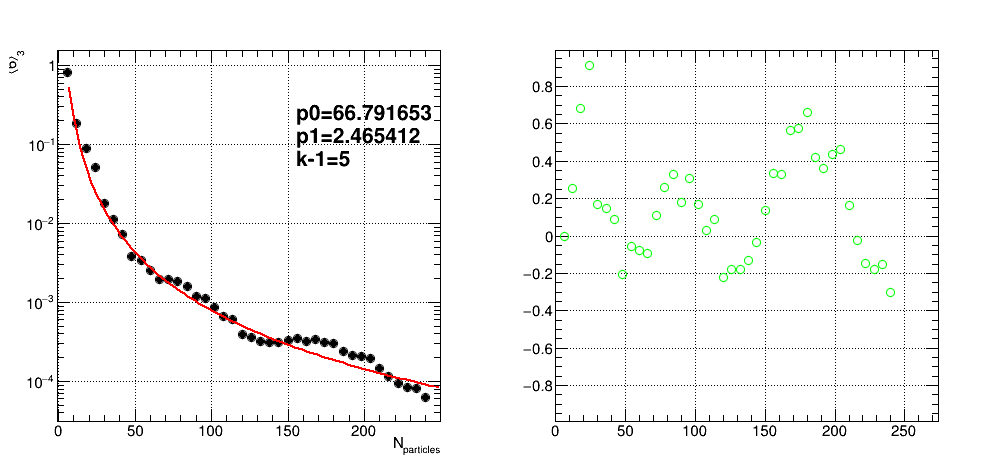
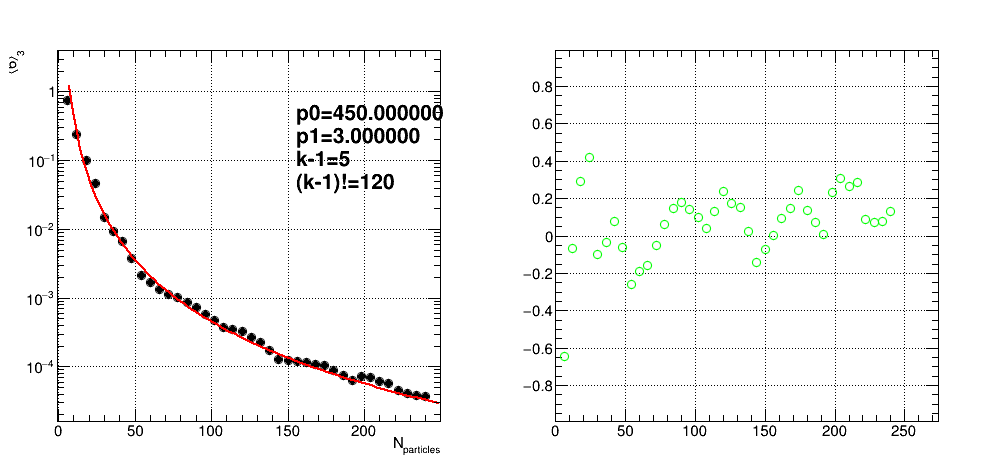
Added Previous Figs Folder, Randomized Spacing Values, Fixed Fit Parameter

diff --git a/RanGenX.C b/RanGenX.C
@@ -124,27 +124,33 @@ void get_corr(int nparticles, int ntuple, int harmonic, double space, int seed)
       ang.push_back(phi2);
 
       if ( ntuple <= 2 ) continue;
-
+      
+      extra = angle.Uniform(-space,space);
       double phi3 = phi2 + increment + extra;
       ang.push_back(phi3);
       if ( ntuple <= 3 ) continue;
 
+      extra = angle.Uniform(-space,space);
       double phi4 = phi3 + increment + extra;
       ang.push_back(phi4);
       if ( ntuple <= 4 ) continue;
 
+      extra = angle.Uniform(-space,space);      
       double phi5 = phi4 + increment + extra;
       ang.push_back(phi5);
       if ( ntuple <= 5 ) continue;
 
+      extra = angle.Uniform(-space,space);
       double phi6 = phi5 + increment + extra;
       ang.push_back(phi6);
       if ( ntuple <= 6 ) continue;
 
+      extra = angle.Uniform(-space,space);
       double phi7 = phi6 + increment + extra;
       ang.push_back(phi7);
       if ( ntuple <= 7 ) continue;
 
+      extra = angle.Uniform(-space,space);
       double phi8 = phi7 + increment + extra;
       ang.push_back(phi8);
       if ( ntuple <= 8 ) continue;

diff --git a/OHist.C b/OHist.C
@@ -51,6 +51,7 @@ void callHK(int H,int K){
   //if(K==3)fun.FixParameter(1,K-1);
   if(K%2==0)fun.FixParameter(1,K/2);
   if(K%2!=0)fun.FixParameter(1,(K+1)/2);
+  if(K==2)fun.FixParameter(0,1.0);
   if(K==3)fun.FixParameter(0,3.0);
   if(K==5)fun.FixParameter(0,200.0);
   if(K==6)fun.FixParameter(0,450.0);
